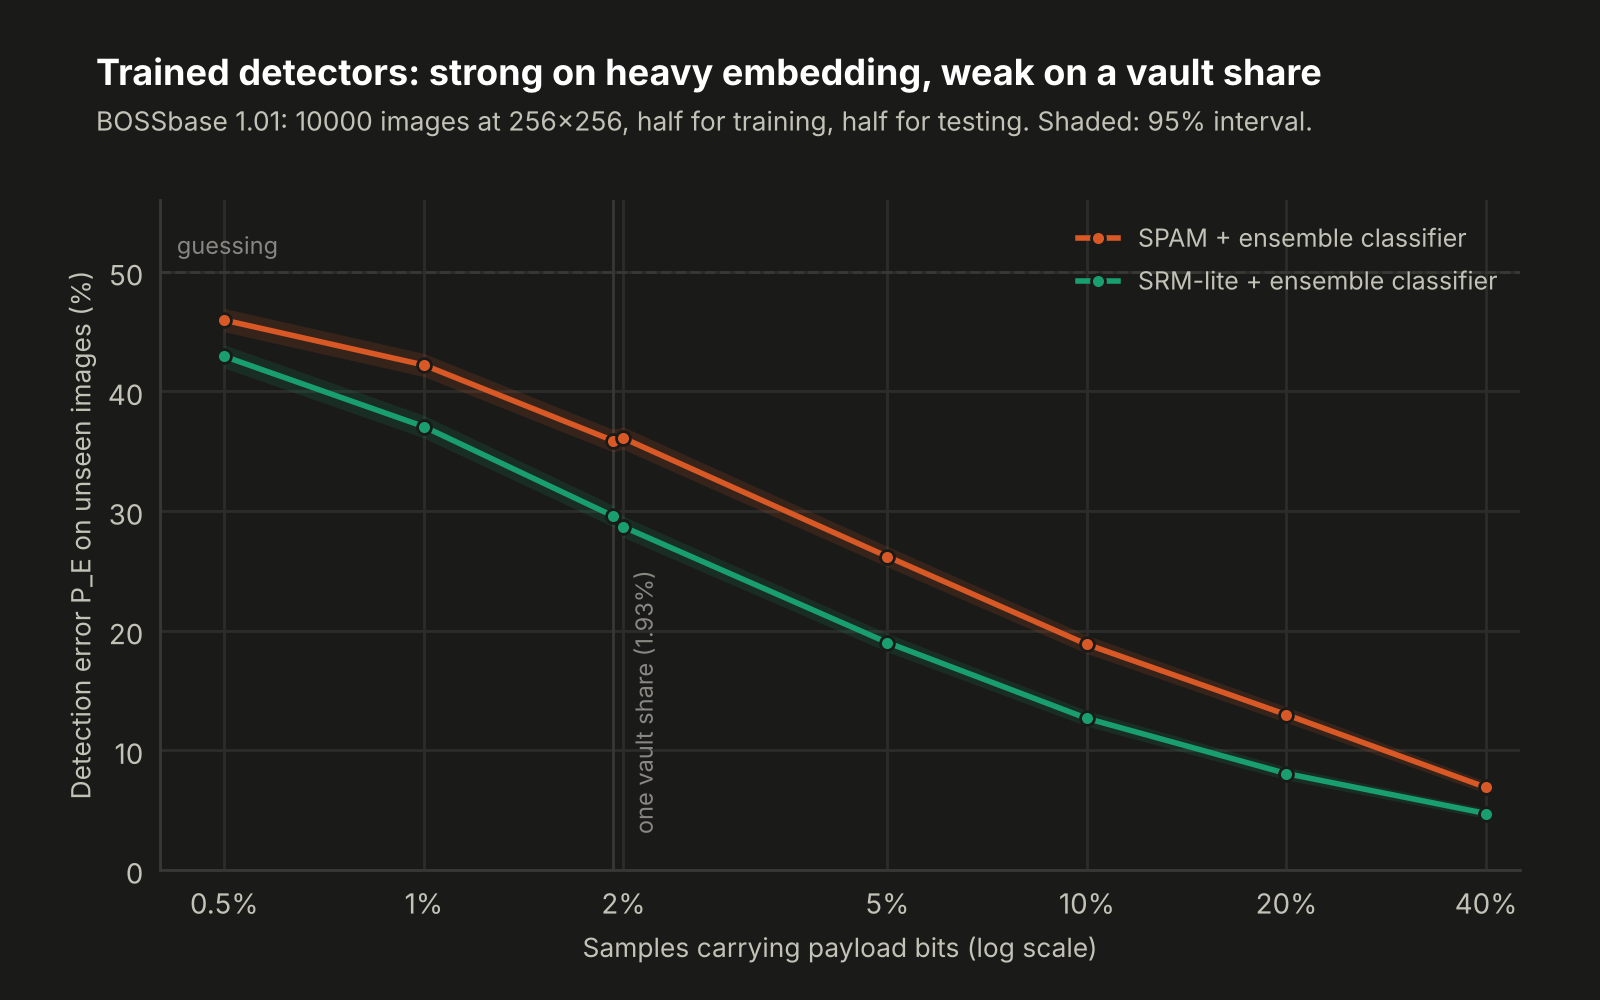
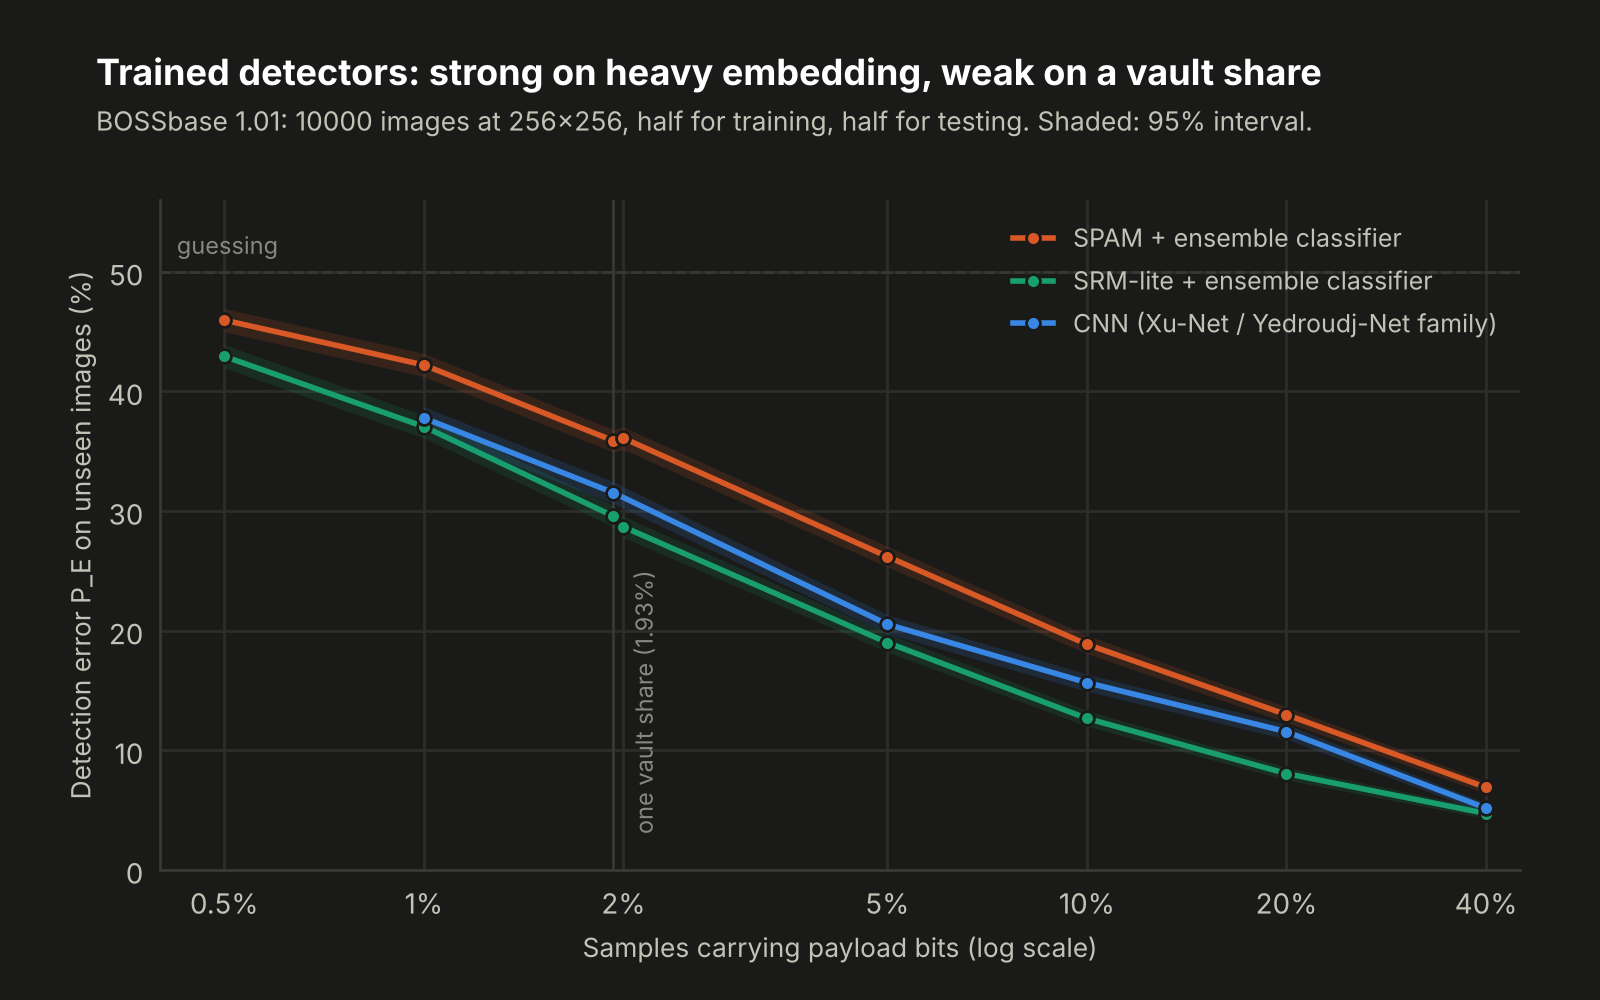
docs: CNN results at 256x256 (docs/05 §5.5.5)
The CNN, trained with curriculum from 40% down to 1%, reaches P_E 31.6%
on one share at 256x256, in line with SRM-lite (29.6%). Also state
precisely that at the lowest rate SRM-lite is 1.5 points from chance,
not at it.

diff --git a/docs/05-security-analysis.md b/docs/05-security-analysis.md
@@ -221,8 +221,9 @@ its stego image are always on the same side.
 **The attacker is given every advantage.** The detector is trained at the
 exact rate it is tested on and on images from the same source as the test
 images. In the field a steganalyst knows neither the rate nor the camera and
-processing that produced the covers, and *cover-source mismatch* is known to
-cost trained detectors a large part of their accuracy. The numbers below are
+processing that produced the covers, and *cover-source mismatch* - training
+on one kind of image and testing on another - is known to cost trained
+detectors accuracy, often substantially. The numbers below are
 therefore an upper bound on what these detectors achieve, not an estimate of
 what they would achieve on a real holder's photo.
 
@@ -252,16 +253,26 @@ Resized to 256x256, the size most deep-learning steganalysis is evaluated
 at, a share is 1.93% of the samples (raw numbers in
 [data/ml_benchmark_256.json](data/ml_benchmark_256.json)):
 
-| Samples carrying bits | Bits | M/√N | SPAM | SRM-lite |
-| ---: | ---: | ---: | ---: | ---: |
-| 40% | 26,214 | 102 | 6.9% | 4.7% |
-| 20% | 13,107 | 51 | 13.0% | 8.1% |
-| 10% | 6,554 | 26 | 18.9% | 12.7% |
-| 5% | 3,277 | 13 | 26.2% | 19.0% |
-| 2% | 1,311 | 5.1 | 36.1% | 28.7% |
-| **1.93% (one share)** | **1,264** | **4.9** | **35.9%** [34.9, 36.8] | **29.6%** [28.7, 30.5] |
-| 1% | 655 | 2.6 | 42.2% | 37.1% |
-| 0.5% | 328 | 1.3 | 46.0% | 42.9% |
+<picture>
+  <source media="(prefers-color-scheme: dark)" srcset="../assets/ml-detection-256-dark.png">
+  <img alt="Detection error at 256x256 for SPAM, SRM-lite and the CNN: 5-7% at 40% embedding, 30-36% at one vault share, 43-46% at 0.5%" src="../assets/ml-detection-256-light.png">
+</picture>
+
+| Samples carrying bits | Bits | M/√N | SPAM | SRM-lite | CNN |
+| ---: | ---: | ---: | ---: | ---: | ---: |
+| 40% | 26,214 | 102 | 6.9% | 4.7% | 5.2% |
+| 20% | 13,107 | 51 | 13.0% | 8.1% | 11.6% |
+| 10% | 6,554 | 26 | 18.9% | 12.7% | 15.7% |
+| 5% | 3,277 | 13 | 26.2% | 19.0% | 20.5% |
+| 2% | 1,311 | 5.1 | 36.1% | 28.7% | — |
+| **1.93% (one share)** | **1,264** | **4.9** | **35.9%** [34.9, 36.8] | **29.6%** [28.7, 30.5] | **31.6%** [30.6, 32.5] |
+| 1% | 655 | 2.6 | 42.2% | 37.1% | 37.8% |
+| 0.5% | 328 | 1.3 | 46.0% | 42.9% | — |
+
+The CNN was trained once, from 40% down to 1%, fine-tuning at each rate
+from the previous one (20 epochs at 40%, then 5 per rate, on 128x128
+windows; about two hours on four CPU cores). It is not run at 512x512, where
+training and testing would take several times longer on a CPU.
 
 What this shows:
 
@@ -275,20 +286,23 @@ What this shows:
    before this measurement, that trained detectors would not see a share at
    all, was wrong for covers this small.
 3. **Smaller covers are worse.** At 256x256 the same 158 bytes are 1.93% of
-   the samples and SRM-lite drops to 29.6%.
+   the samples and SRM-lite drops to 29.6%. The CNN reaches 31.6%: a
+   network of this size, trained on a CPU, matches the rich model rather
+   than beating it, so deep learning does not change the picture at this
+   scale.
 4. **What matters is the payload against the square root of the cover.**
    The *square-root law* of steganographic capacity (Ker et al.) says a fixed
    payload of M bits in a cover of N samples becomes harder to detect as
    M/√N decreases, not merely as M/N does. The share is fixed at 1,264 bits,
-   so the cover size alone decides. At M/√N ≈ 0.5 both detectors are at
-   chance within the interval. The two image sizes agree with the law only
+   so the cover size alone decides. At M/√N ≈ 0.5 SPAM is at chance within
+   its interval and SRM-lite is 1.5 points from it (48.5%, AUC 0.52). The two image sizes agree with the law only
    roughly (at M/√N = 1.3, SRM-lite reads 45.6% at 512 and 42.9% at 256),
    because resizing changes the noise the detectors rely on.
 
 What it means for a real cover: a share in a 512x512 greyscale image has
 M/√N ≈ 2.5; in a 1-megapixel colour photo (3 million samples) ≈ 0.7; in a
-2-megapixel colour photo ≈ 0.5; in a 12-megapixel phone photo ≈ 0.2, more
-than twice below the lowest point measured. **Use colour photos of at least
+2-megapixel colour photo ≈ 0.5, the lowest point measured; in a
+12-megapixel phone photo ≈ 0.2, more than twice below it. **Use colour photos of at least
 2 megapixels.** That threshold is an extrapolation along the square-root law
 from greyscale 512x512 images, not a measurement on large photos, which
 BOSSbase does not contain.
@@ -301,7 +315,7 @@ pip install -e ".[bench,ml]"
 python -m shardpix.analysis.ml_benchmark BOSSbase_1.01/ --size 512 --detectors spam,srm_lite
 python -m shardpix.analysis.ml_benchmark BOSSbase_1.01/ --size 512 --detectors spam,srm_lite --rates 0.0025,0.001
 python -m shardpix.analysis.ml_benchmark BOSSbase_1.01/ --size 256 --rates 0.4,0.2,0.1,0.05,0.02,0.01,0.005 --detectors spam,srm_lite
-python -m shardpix.analysis.ml_benchmark BOSSbase_1.01/ --size 256 --rates 0.4,0.2,0.1,0.05,0.01 --detectors cnn --fine-epochs 5
+python -m shardpix.analysis.ml_benchmark BOSSbase_1.01/ --size 256 --rates 0.4,0.2,0.1,0.05,0.01 --detectors cnn --fine-epochs 5 --checkpoint cnn-256
 ```
 
 ## 5.6 Known limitations
@@ -310,15 +324,16 @@ python -m shardpix.analysis.ml_benchmark BOSSbase_1.01/ --size 256 --rates 0.4,0
 
 **Trained steganalysis sees shares in small covers.** Measured in §5.5.5:
 in a 512x512 greyscale photo a share brings a rich-model detector to 42.5%
-error, against 50% for guessing; at 256x256 to 29.6%. In colour photos of
-2 megapixels or more the share falls below the lowest rate measured, where
-the detectors were at chance — but that is an extrapolation along the
-square-root law, not a measurement on large photos. The detectors used are
-SPAM, a 3,125-feature subset of the spatial rich model and a small CNN
-trained on a CPU; the full SRM (34,671 features) and larger networks such as
-SRNet, trained on a GPU, would likely do better. Shares are not adaptive:
-they do not prefer textured regions as HUGO, WOW or S-UNIWARD do, which
-would lower detectability further at the same payload.
+error, against 50% for guessing; at 256x256 to 29.6%, and a CNN to 31.6%.
+In colour photos of 2 megapixels or more the share falls to or below the
+lowest rate measured, where the detectors were at or within 1.5 points of
+chance — but that is an
+extrapolation along the square-root law, not a measurement on large photos.
+The detectors used are SPAM, a 3,125-feature subset of the spatial rich
+model and a small CNN trained on a CPU; the full SRM (34,671 features) and
+larger networks such as SRNet, trained on a GPU, would likely do better.
+Shares are not adaptive: they do not prefer textured regions as HUGO, WOW or
+S-UNIWARD do, which would lower detectability further at the same payload.
 
 **JPEG covers.** Pixels decoded from a JPEG obey the block quantisation of
 the original file. Changing any of them by ±1 breaks that structure, which

diff --git a/README.it.md b/README.it.md
@@ -139,9 +139,9 @@ compresse, un classificatore basato sui rich model, addestrato nelle
 condizioni più favorevoli per chi attacca, sbaglia nel 42,5% dei casi su una
 quota nascosta in una foto in scala di grigi 512x512, contro il 50% di chi
 tira a caso: un segnale debole, ma non nullo. Il segnale cala con la radice
-quadrata della dimensione dell'immagine, e al tasso più basso misurato i
-rilevatori erano al livello del caso. **Usa foto a colori di almeno 2
-megapixel**, che portano una quota sotto quel punto.
+quadrata della dimensione dell'immagine: al tasso più basso misurato i
+rilevatori erano entro 1,5 punti dal caso. **Usa foto a colori di almeno 2
+megapixel**, che portano una quota a quel punto o sotto.
 
 <picture>
   <source media="(prefers-color-scheme: dark)" srcset="assets/ml-detection-512-dark.png">

diff --git a/README.md b/README.md
@@ -133,9 +133,9 @@ Trained detectors are stronger. On BOSSbase, 10,000 never-compressed
 photographs, a rich-model classifier trained under ideal conditions for the
 attacker brings a share in a 512x512 greyscale photo to 42.5% detection
 error, against 50% for guessing: weak, but not zero. The signal shrinks with
-the square root of the cover size, and at the lowest rate measured the
-detectors were at chance. **Use colour photos of at least 2 megapixels**,
-which puts a share below that point.
+the square root of the cover size: at the lowest rate measured the
+detectors were within 1.5 points of chance. **Use colour photos of at least
+2 megapixels**, which puts a share at or below that point.
 
 <picture>
   <source media="(prefers-color-scheme: dark)" srcset="assets/ml-detection-512-dark.png">

diff --git a/CHANGELOG.md b/CHANGELOG.md
@@ -17,8 +17,9 @@ All notable changes to this project are documented here. The format follows
 
 - docs/05 §5.5.5 reports the measurement and §5.6 replaces the expectation
   that trained detectors would not see a share: in a 512x512 greyscale photo
-  they do, weakly (42.5% error against 50% for guessing). Covers should be
-  colour photos of at least 2 megapixels.
+  they do, weakly (42.5% error against 50% for guessing; 29.6% for the rich
+  model and 31.6% for the CNN at 256x256). Covers should be colour photos of
+  at least 2 megapixels.
 
 ## [1.1.0] — 2026-10-06
 
